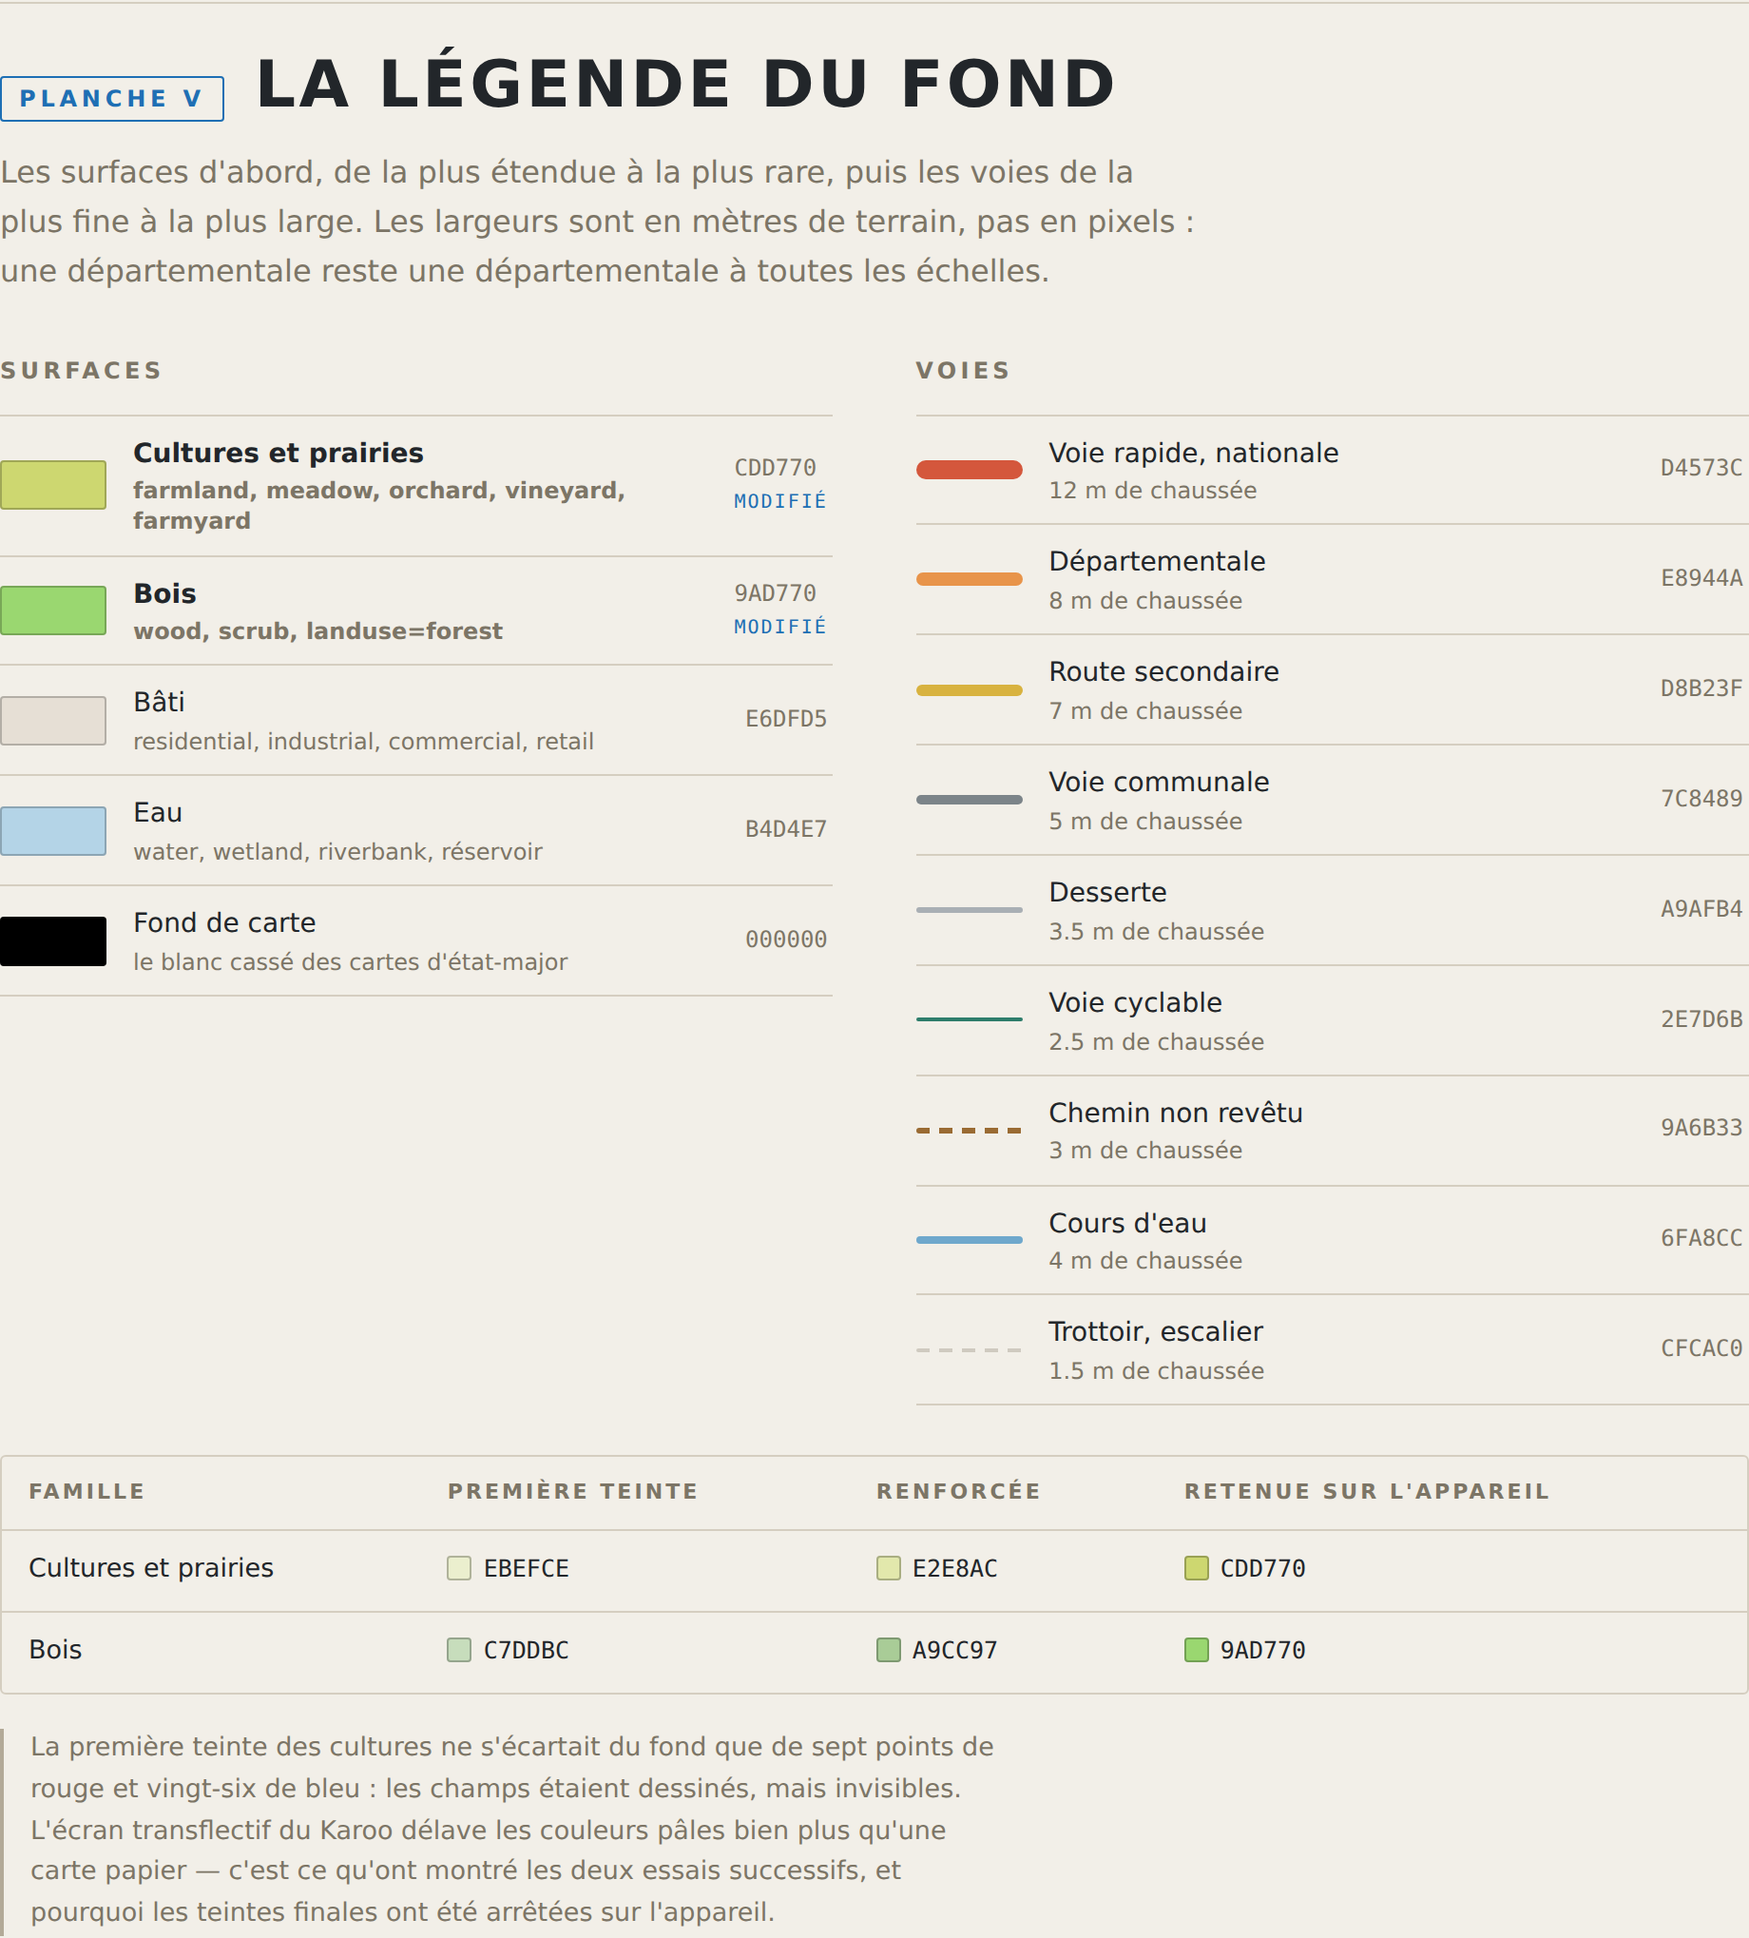
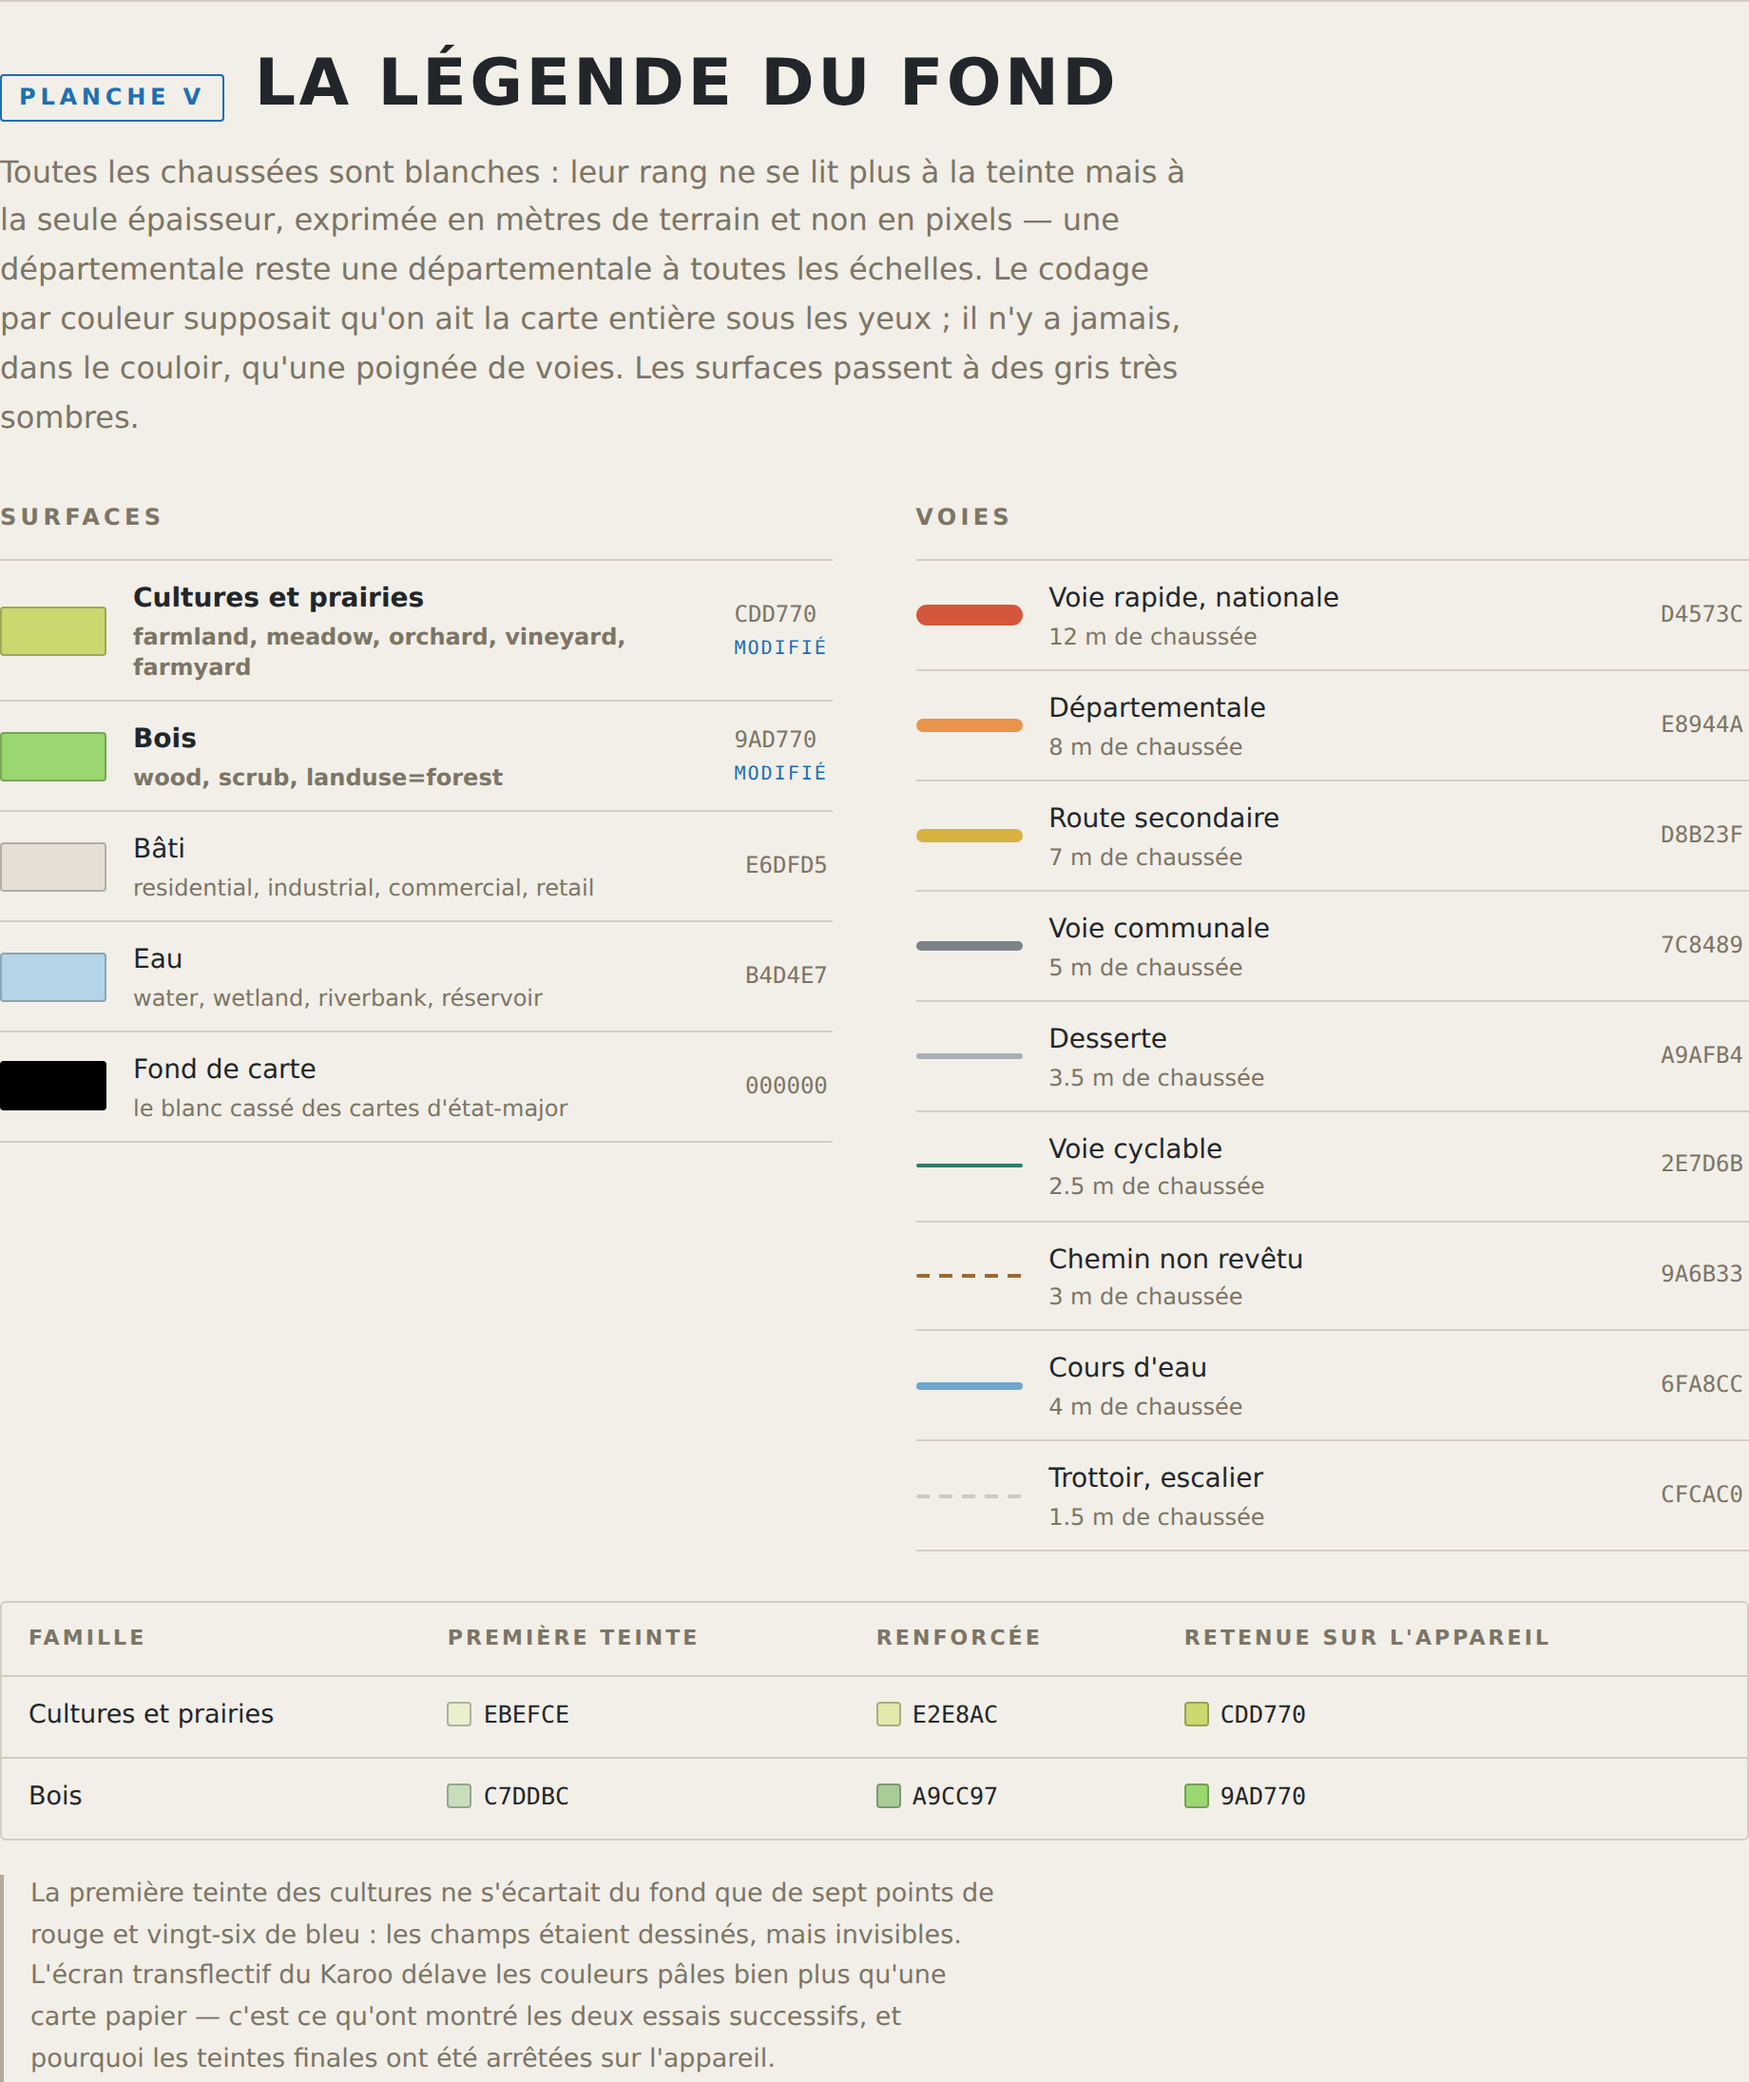
Réécrit les planches pour la carte qu'elles montrent désormais
Le texte décrivait encore un tracé jaune cerné de noir, des chevrons bornés
et un bandeau qui n'apparaît qu'au voisinage d'une côte. Les six planches
disent maintenant ce que le code fait : le couloir qui naît du tracé, le
rang des voies lu à la seule épaisseur, le bandeau permanent et son repère
fixe. La planche des portées change d'objet — le couloir gardant la même
largeur relative, dézoomer fait voir plus loin devant, pas plus loin de côté.

Le journal gagne les trois dernières entrées, et les images sont refaites.

Claude-Session: https://claude.ai/code/session_013KNvL6kHkzLQjmszhNZFFm

diff --git a/docs/planches.html b/docs/planches.html
@@ -229,9 +229,10 @@
     <p class="standfirst">L'écran du tableau de bord reconstruit point par point, à la taille
       qu'il occupe réellement sur le Karoo 3&nbsp;: 480&nbsp;×&nbsp;800 points sur deux pouces
       et demi de diagonale. Toutes les cotes, les couleurs et les icônes viennent du code de
-      la branche.</p>
+      la branche. La carte y est neuve&nbsp;: fond noir, voies blanches qui s'éteignent en
+      s'écartant de l'itinéraire, ruban bleu sans chevron ni flèche.</p>
     <div class="stamp">
-      <span>Version <b>c252b6f</b></span>
+      <span>Version <b>22b21e0</b></span>
       <span>Branche <b>claude/hammerhead-karou-3-app-9yvabn</b></span>
       <span>Écran <b>480 × 800 px · ≈389 ppp</b></span>
     </div>
@@ -295,9 +296,11 @@
         <li><span class="badge">C</span><div>
           <h3>Minicarte</h3>
           <p>Cap en haut, coureur fixe aux quatre cinquièmes de la hauteur. Fond de carte hors ligne,
-             tracé jaune cerné de noir, chevrons bornés aux prochaines centaines de mètres et
-             partant de l'aplomb exact du coureur. Hors itinéraire, ruban et chevrons passent
-             au rouge, et les chevrons courent alors tout du long.</p>
+             fond noir et voies blanches, dont le rang se lit à la seule épaisseur. Elles
+             s'éteignent vers le noir à mesure qu'elles s'écartent de l'itinéraire&nbsp;: la
+             carte ne montre qu'un couloir autour de ce qu'on va faire. Le tracé y est un ruban
+             bleu, plein devant le coureur et s'effaçant derrière lui — ni chevron ni flèche,
+             c'est le fondu qui dit le sens. Hors itinéraire, il passe au rouge.</p>
         </div></li>
         <li><span class="badge">D</span><div>
           <h3>Fréquence cardiaque</h3>
@@ -324,10 +327,10 @@
       <span class="plate-no">Planche III</span>
       <h2>Les trois portées</h2>
     </div>
-    <p class="lede">Une pression sur le champ fait tourner l'échelle. Les chevrons ne courent
-      jamais jusqu'au bout du tracé restant, mais seulement sur les 300, 800 ou 1 300 prochains
-      mètres&nbsp;: sur une boucle qui repasse par son départ, la branche du retour cessait
-      d'indiquer la bonne direction.</p>
+    <p class="lede">Une pression sur le champ fait tourner l'échelle. Le couloir, lui, garde la
+      même largeur relative&nbsp;: il vaut toujours à peu près la largeur de la carte, si bien
+      qu'en dézoomant on ne voit pas plus loin de part et d'autre du tracé, on voit plus loin
+      devant. C'est ce qu'on cherche — le fond n'est pas là pour être lu comme une carte.</p>
     <div class="plate-body ranges" id="ranges"></div>
   </section>
 
@@ -335,20 +338,23 @@
   <section class="plate" id="plancheCote">
     <div class="plate-head">
       <span class="plate-no">Planche IV</span>
-      <h2>Le bandeau de côte</h2>
+      <h2>Le bandeau de profil</h2>
     </div>
-    <p class="lede">Il apparaît 300 mètres avant le pied et reste jusqu'au sommet, en mangeant
-      le dixième bas de l'écran. La silhouette porte la couleur de la pente&nbsp;; le filet bleu
-      est celui que le Karoo emploie partout où il est question de grimper.</p>
+    <p class="lede">Il est là en permanence, et mange le dixième bas de l'écran. Un bandeau qui
+      surgit au pied d'une bosse et disparaît au sommet oblige à réapprendre la mise en page
+      chaque fois, et se dérobe précisément quand on voudrait savoir si le faux plat qu'on
+      subit en est un. La couleur est posée par tranches de cent mètres, jointives, rognées
+      d'un seul tenant sous la silhouette.</p>
     <div class="plate-body">
       <div class="band-stage">
         <canvas id="cBand" width="936" height="160" style="width:100%;height:auto"
                 aria-label="Bandeau de profil de côte"></canvas>
       </div>
-      <p class="caveat">Ci-dessus, la première côte de l'itinéraire d'aperçu&nbsp;: 2 400 à
-        5 000 mètres, le coureur au tiers de la montée. Le «&nbsp;1/2&nbsp;» ne bougera plus —
-        le Karoo retire une côte de sa liste dès qu'on y entre, l'extension garde mémoire de
-        celles déjà vues pour que la numérotation ne recule pas.</p>
+      <p class="caveat">Deux kilomètres&nbsp;: deux cents mètres derrière le coureur, tenus en
+        grisé, et mille huit cents devant. Le repère blanc ne bouge donc jamais du dixième
+        gauche de la bande — c'est le profil qui défile dessous. Le «&nbsp;1/2&nbsp;» ne
+        reculera pas&nbsp;: le Karoo retire une côte de sa liste dès qu'on y entre, l'extension
+        garde mémoire de celles déjà vues.</p>
       <div class="grades" id="grades"></div>
     </div>
   </section>
@@ -359,9 +365,11 @@
       <span class="plate-no">Planche V</span>
       <h2>La légende du fond</h2>
     </div>
-    <p class="lede">Les surfaces d'abord, de la plus étendue à la plus rare, puis les voies de la
-      plus fine à la plus large. Les largeurs sont en mètres de terrain, pas en pixels&nbsp;:
-      une départementale reste une départementale à toutes les échelles.</p>
+    <p class="lede">Toutes les chaussées sont blanches&nbsp;: leur rang ne se lit plus à la
+      teinte mais à la seule épaisseur, exprimée en mètres de terrain et non en pixels — une
+      départementale reste une départementale à toutes les échelles. Le codage par couleur
+      supposait qu'on ait la carte entière sous les yeux&nbsp;; il n'y a jamais, dans le
+      couloir, qu'une poignée de voies. Les surfaces passent à des gris très sombres.</p>
     <div class="plate-body legend">
       <div>
         <div class="eyebrow">Surfaces</div>
@@ -414,6 +422,12 @@
           <small>«&nbsp;50×17&nbsp;» tombait à un demi-millimètre de l'aplat jaune du champ dessous.</small></p></li>
         <li><span class="sha">aa25ae4</span><p>Le plateau dégagé des barres de la transmission
           <small>Du blanc réservé au-dessus du peigne, et «&nbsp;50×17&nbsp;» ramené au rang de renseignement d'appoint.</small></p></li>
+        <li><span class="sha">22b21e0</span><p>La carte passe au noir, et son fondu naît du tracé
+          <small>Voies blanches rognées par un couloir autour de l'itinéraire&nbsp;; ruban bleu de dix-sept points, éteint en arrière ; ni chevron ni flèche.</small></p></li>
+        <li><span class="sha">16c5d34</span><p>Le bandeau de profil devient permanent
+          <small>Deux kilomètres autour du coureur, coloriés par tranches de cent mètres, repère fixe sur la courbe.</small></p></li>
+        <li><span class="sha">7d10823</span><p>Le numéro de zone s'écrit à gauche de la fréquence cardiaque
+          <small>L'aplat le disait déjà, mais de mémoire seulement.</small></p></li>
         <li><span class="sha">d446049</span><p>Les libellés sont suspendus au haut de leur case
           <small>Ils tombent sur la même ligne d'un rang à l'autre, quelle que soit la taille des chiffres.</small></p></li>
         <li><span class="sha">eb6146c</span><p>Les libellés se réduisent jusqu'à dégager leur icône
